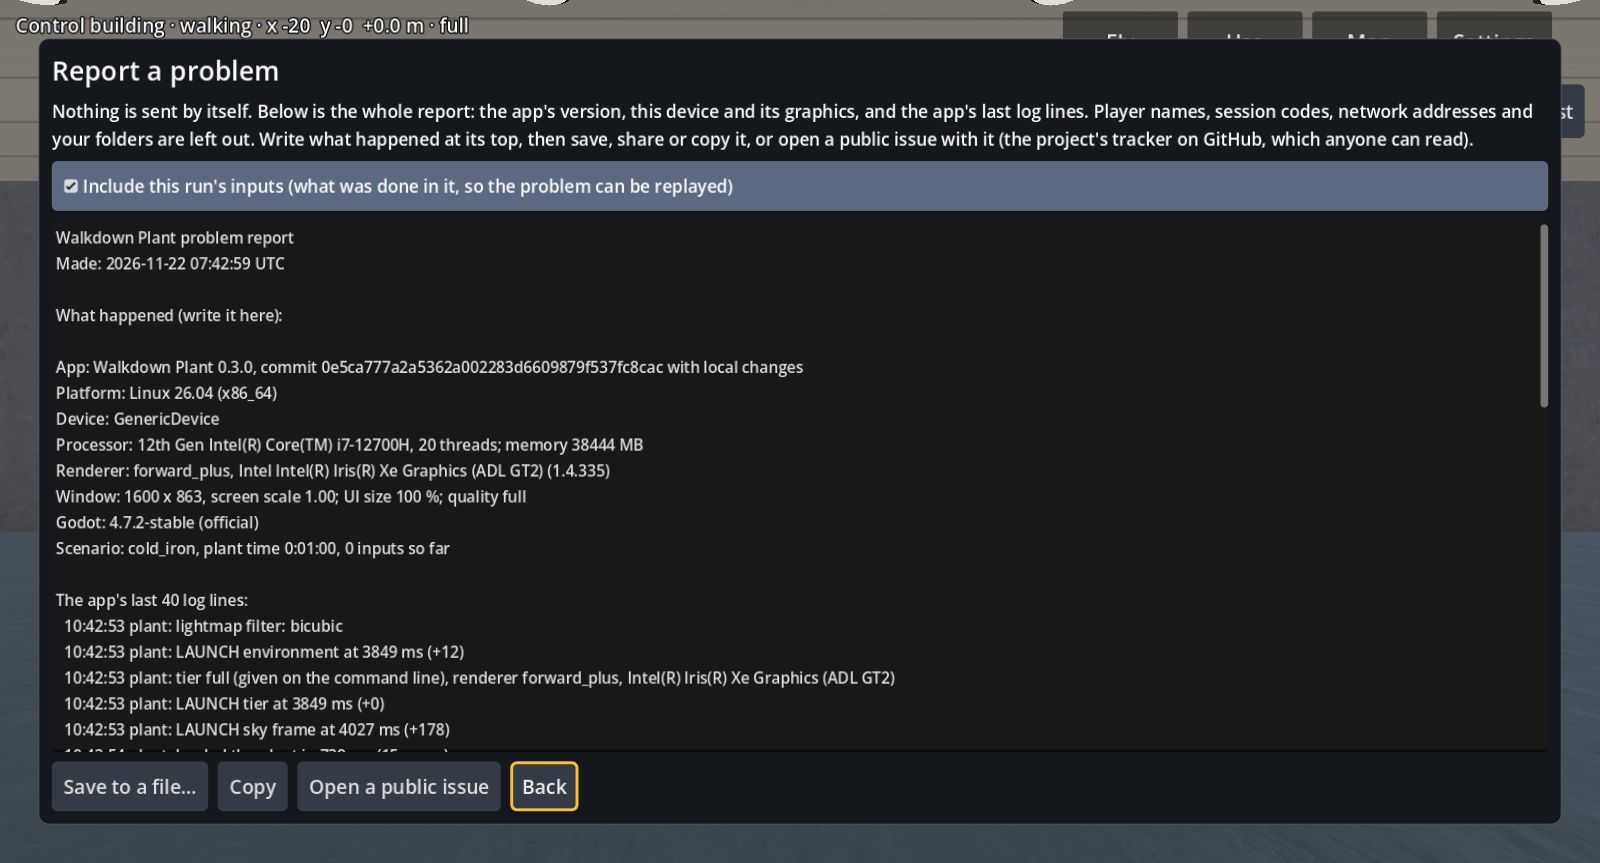
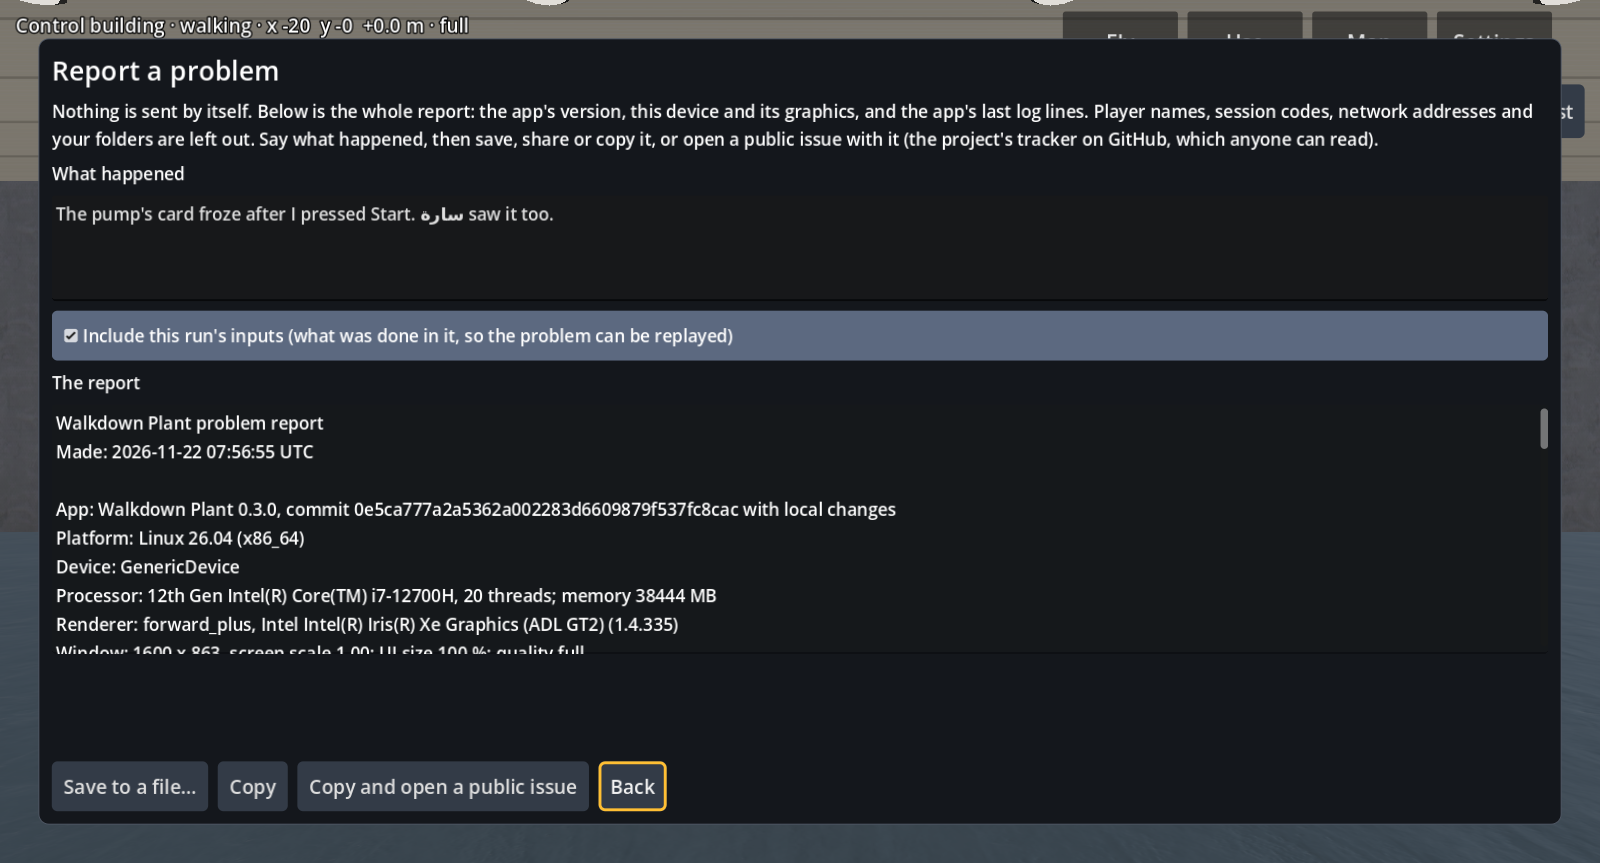
UX evidence: Report a problem (#446), round 2

Changed region(s): [[0.0312, 0.1506, 0.9688, 0.8737], [0.1875, 0.8737, 0.4375, 0.9641]]

diff --git a/MANIFEST.md b/MANIFEST.md
@@ -1,18 +1,30 @@
-# UX evidence: Report a problem (#446), round 1
+# UX evidence: Report a problem (#446), round 2
 
-Synthetic (the invented plant), commit ef1f25a5c7a3efe6519b46f80925945e26961eec. `apps/plant3d/tests/report_shots.gd` under tools/plant3d/bench/offscreen.sh (OFFSCREEN_GODOT_DATA a folder of its own), switched on: desk_uidefault (1600x900, 100 %), desk_ui2 (1366x768, 200 %), phone_uidefault (2220x1080 phone layout); states report_about, report_shown, report_inputs, report_copied.
+Synthetic (the invented plant), commit 01d2138f06380cec41d8bfe625e04aac2a3fbafd. `apps/plant3d/tests/report_shots.gd` at the head, switched on, OFFSCREEN_GODOT_DATA a folder of its own: desk_uidefault (1600x900, 100 %), desk_ui2 (1366x768, 200 %), phone_uidefault (2220x1080 phone layout), small640_desk_ui2 (640x360, --ui-size=2). States: report_about, report_shown, report_written (a description in Latin and Arabic), report_inputs (ticked, the report scrolled to), report_save_failed, report_copied.
 
 ```
-ee70194b6fe37b3613ef6f89f57fce23e382b0fe42601f3c0040407997b20c0a  desk_ui2_report_about.png
-cee4f3494e7fa9ae45a61de88e92e1cd131cab98e9ceb835d56ae8a1ecd03321  desk_ui2_report_copied.png
-3782961943445d9395e36728e6c9c46e41f13f0a7b6febdc5e283a12c7cefbbe  desk_ui2_report_inputs.png
-a174fecc8280fb07d6884be3931ed182acfcb642a8a09b789931abec217e1573  desk_ui2_report_shown.png
-dccd297f6c094a40aa3e8651dff55555bfbad6a8730a38a6a75524734aad764f  desk_uidefault_report_about.png
-8a832c6386f077172317522e8e919bb6eeb37d2c26ded6e8564110a12cf37ffe  desk_uidefault_report_copied.png
-9ad90a7d64f37dfc0b1fda6de40b57f3e0368cda36a9e8225f87b1cf4969517b  desk_uidefault_report_inputs.png
-ae44316870e76c390266a5d738304c08111c082850bcb472077f1fd474bd0234  desk_uidefault_report_shown.png
-69bdf7c8a6e6ebe18a146830ca5c8dd845aa04b3a57f12364f9584d1f2322378  phone_uidefault_report_about.png
-e628f935738212bcbf7d59ba5b09c53e9b773cc821193e547c8fcedd5c963530  phone_uidefault_report_copied.png
-811475da4b2fb0d46e4a3055d61e06d07945657a6db540617730a4daa1ed1347  phone_uidefault_report_inputs.png
-c0d8a666ac8c86a5d695fc2c4c7fa9a9dadd5a48aaf837dbf2da94e557c3ac4c  phone_uidefault_report_shown.png
+e33dd444f95bd5e83d1cd6fe81fcf8d61b87a0fe1ae871e025a27f3eeab21567  desk_ui2_report_about.png
+f6e9e1b3a5cd3f9722aa443c5b8fee7b1ee3dea8b51b9d901dfe2c77814eb31c  desk_ui2_report_copied.png
+daac9a2cd6a4ab6f99c68afef9daef9d301121b2cdc1f97fe727a0312b33f232  desk_ui2_report_inputs.png
+89101c8c5bac49b03ec6c72c682fbce6eb30cc697746a363ea0978435376093f  desk_ui2_report_save_failed.png
+9d5717187a687556f718dfaf8fcc24318e13ca75bbcf87ee79e9c8e5b1b4f934  desk_ui2_report_shown.png
+e9dcd2d6d64560549cbf8de57afebc8305d742ab4fc65b1125dc0fec3208f609  desk_ui2_report_written.png
+cf64f0405a81f29d1fa1f1d1e6d0d2782222568d0b8c6b632a53e97b78e0d2da  desk_uidefault_report_about.png
+fc3efd2497f19def5cf735e70a45ef873de059c6753b0da1c3f07e594d519b34  desk_uidefault_report_copied.png
+4fc2622f9141965079bd54b7484de369f95f4b1d32c71873ca40f0355e24b180  desk_uidefault_report_inputs.png
+1697a73f3fde783593c1d0584fba0eaed97bbef87a5e937d67a4e99ef2102c6f  desk_uidefault_report_save_failed.png
+e542e2b197f96a6158b1cda7cceadff2535d15252823a8158ffc2d5b4b51465e  desk_uidefault_report_shown.png
+315e53e5d4ff10d8c735174c7441081383e32b52a8adb6a9a5e8106afca7125a  desk_uidefault_report_written.png
+c261f66409bc34900149feae6a0e2145849bfa59e50a462f43bce1817c1e7950  phone_uidefault_report_about.png
+bfa53011d2a389d9608821bb68f105897a38d2a3fb1d0d77d11e6587a6b8c1ba  phone_uidefault_report_copied.png
+662e0c4bd1e25e13bf8c8b19a9b1cf8bf0abb05ff563ddcaf2b4e3fe6bb6631a  phone_uidefault_report_inputs.png
+14c71c6b6e51765f03ead28449ffca15c96e3278e014ebf5046749332d6cc8d2  phone_uidefault_report_save_failed.png
+5b5e99efcae2b3ce1c53ed13fe5d9573aab4743148d1e0169877b81654f1c171  phone_uidefault_report_shown.png
+3cc6b85dfcbecbb48e6ad102e0d941343ab638f5b4bbfd5ef63ddac6ab97e5b1  phone_uidefault_report_written.png
+903ad3549d913c4bc413bec716f576fb0c6d3aeed2f1f4c3944f0daaf05141f7  small640_desk_ui2_report_about.png
+e87360b387b284fc7d1df39980122781ed4e79c1d16f64a696a8d143cde054e1  small640_desk_ui2_report_copied.png
+2bd8ee2967c3feeafafd4dd6dba0ace41ab4fa4e41ff3302ee4185101bdd1981  small640_desk_ui2_report_inputs.png
+0dc523b5b5a7bdbd435cdbadd39b8ee9711ec7d0a9254575965737828c6eaf1a  small640_desk_ui2_report_save_failed.png
+6fd8ec92efd3df4e2e318fc609ef52ddd2e0a7a7b255c89ae6f5f127db40c71d  small640_desk_ui2_report_shown.png
+61413a586d0aac1971d4d01a73e78635f432b27dcc8e446f57d796d2f8a2d82f  small640_desk_ui2_report_written.png
 ```
